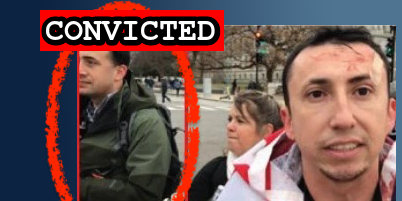
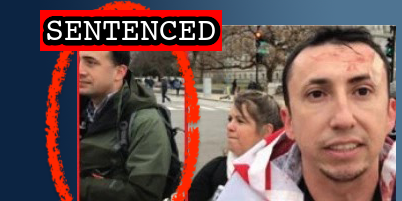
Latest plea and sentencing

Changed region(s): [[0.0896, 0.0597, 0.5672, 0.2388]]

diff --git a/docs/_suspects/sean-cordon.md b/docs/_suspects/sean-cordon.md
@@ -4,16 +4,16 @@ lastName: Cordon
 hashtag: SeanCordon
 aka:
 residence: California
-status: Convicted
+status: Sentenced
 date: 2021-03-09
 charged: 2021-03-09
 indicted:
 convicted: 2021-08-27
-sentenced:
+sentenced: 2021-11-12
 dismissed:
 deceased:
 plea_hearing: 2021-08-27
-sentencing: 2021-11-02
+sentencing: 2021-11-12
 age: 35
 occupation:
 affiliations:
@@ -34,12 +34,16 @@ published: true
 caseNumber: 1:21-cr-269
 videos:
 charges:
-- code: 18 USC § 5104(e)(2)(G)
-  title: Parading, Demonstrating or Picketing in a Capitol Building
-  url: https://www.law.cornell.edu/uscode/text/40/5104
-  felony: false
+  - code: 18 USC § 5104(e)(2)(G)
+    title: Parading, Demonstrating or Picketing in a Capitol Building
+    url: https://www.law.cornell.edu/uscode/text/40/5104
+    felony: false
 sentence:
+  - $4,000 fine
+  - 2 months probation
+  - $500 restitution
 ---
+
 - [News Report](https://news.yahoo.com/2-brothers-arrested-capitol-insurrection-200102712.html)
 - [Statement of Facts](https://www.justice.gov/usao-dc/case-multi-defendant/file/1428556/download)
 - [Information](https://www.justice.gov/usao-dc/case-multi-defendant/file/1383756/download)

diff --git a/docs/_suspects/lonnie-coffman.md b/docs/_suspects/lonnie-coffman.md
@@ -4,15 +4,15 @@ lastName: Coffman
 hashtag: LonnieCoffman
 aka:
 residence: Alabama
-status: Indicted
+status: Convicted
 date: 2021-01-07
 charged: 2021-01-07
 indicted: 2021-01-11
-convicted:
+convicted: 2021-11-12
 sentenced:
 dismissed:
 deceased:
-plea_hearing: 2021-10-26
+plea_hearing: 2021-11-12
 sentencing:
 age: 70
 occupation:
@@ -34,6 +34,18 @@ published: true
 caseNumber: 1:21-cr-4
 videos:
 charges:
+  - code: 26 USC § 5861(d)
+    title: Possession of an Unregistered Firearm
+    url: https://www.law.cornell.edu/uscode/text/26/5861
+    felony: true
+  - code: 22 DC Code § 4504(a)
+    title: Carrying a Pistol Without a License
+    url: https://code.dccouncil.us/us/dc/council/code/sections/22-4504.html
+    felony: true
+  - code: 26 USC § 5861(d)
+    title: Possession of an Unregistered Firearm
+    url: https://www.law.cornell.edu/uscode/text/26/5861
+    felony: true
 sentence:
 ---
 
